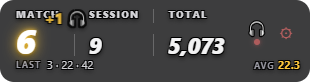
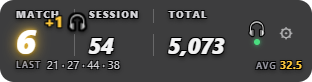
cat and the three themes in the readme

diff --git a/README.md b/README.md
@@ -64,7 +64,19 @@ Requires Windows 10 (version 2004 or newer) or Windows 11.
   combination, while the game keeps the focus. Keyboard shortcuts work too.
 
 <p align="center">
-  <img src="docs/images/bar-counting.png" alt="A chest counted live" />
+  <img src="docs/images/bar-counting.png" width="45%" alt="A chest counted live" />
+  &nbsp;
+  <img src="docs/images/bar-cat.png" width="45%" alt="The same in cat mode" />
+  <br />
+  <sub>A chest heard live, and the same in cat mode</sub>
+</p>
+
+<p align="center">
+  <img src="docs/images/theme-dark.png" width="32%" alt="Dark theme" />
+  <img src="docs/images/theme-midnight.png" width="32%" alt="Midnight theme" />
+  <img src="docs/images/theme-storm.png" width="32%" alt="Storm theme" />
+  <br />
+  <sub>The three themes: Dark, Midnight and Storm</sub>
 </p>
 
 ### Treasure hunt stats
